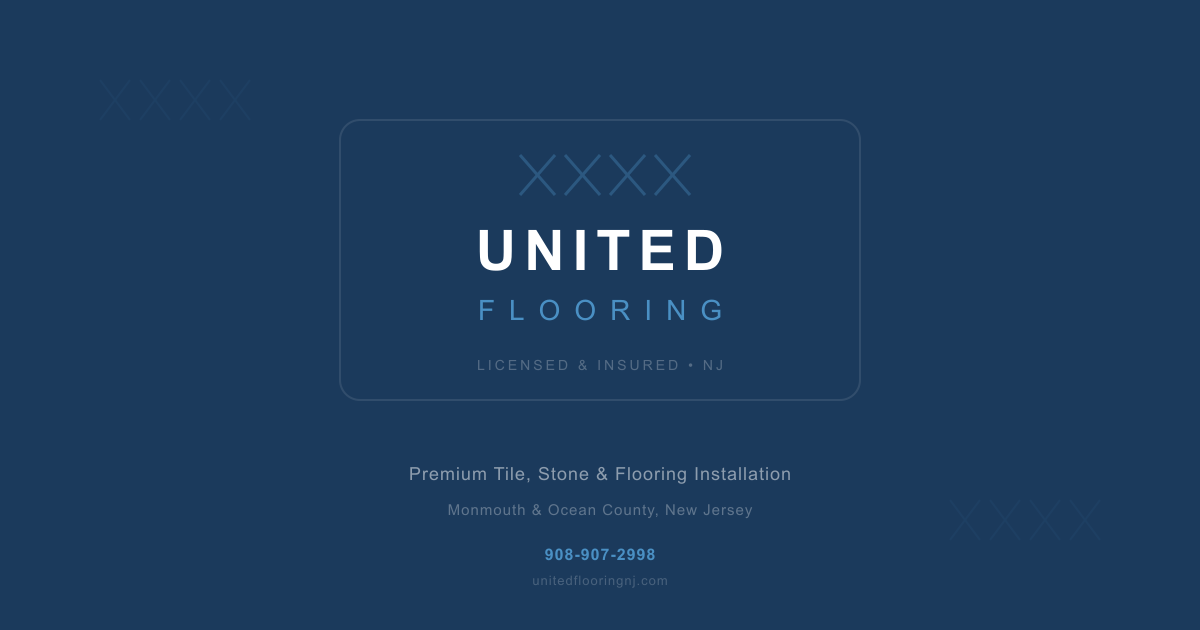
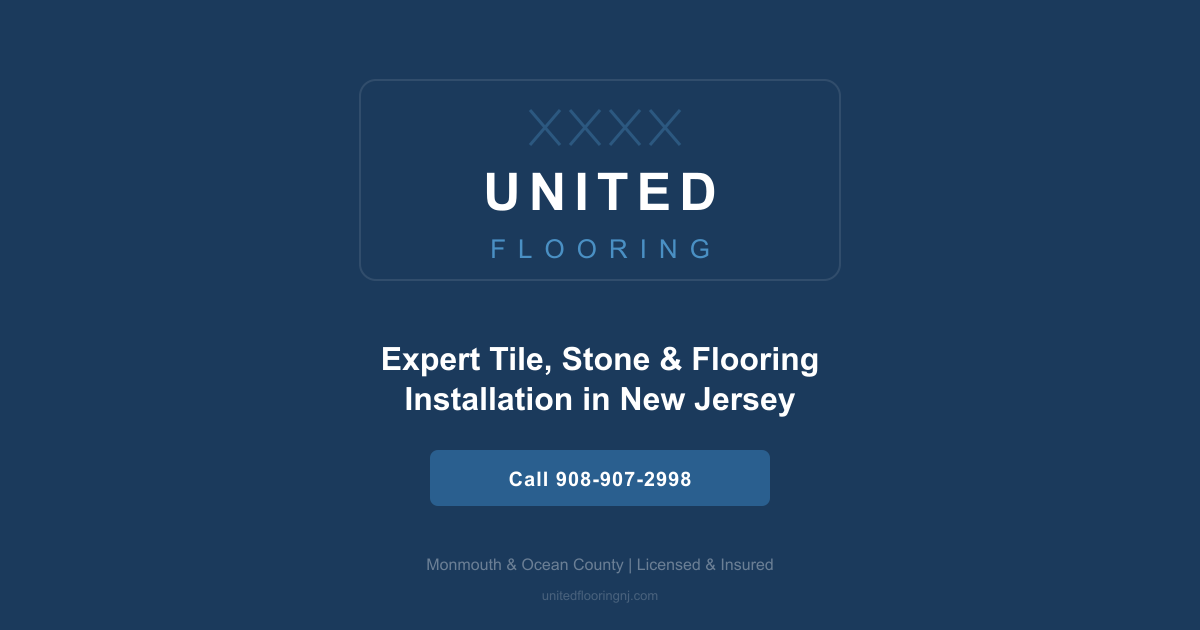
White hero background, fix OG image and metadata
- Hero: white background with subtle photo overlay, navy/blue text
- Navbar: always light theme to match white hero
- OG image: clear headline + CTA button (Call 908-907-2998)
- Title shortened to 51 chars for optimal social preview
- Description shortened to ~130 chars
- Add metadataBase for proper OG image URL resolution
- Use relative OG image paths

diff --git a/components/Hero.js b/components/Hero.js
@@ -1,34 +1,34 @@
 export default function Hero() {
   return (
-    <section id="hero" className="relative min-h-screen flex items-center bg-linear-135 from-navy-dark via-navy to-blue overflow-hidden">
+    <section id="hero" className="relative min-h-screen flex items-center bg-white overflow-hidden">
       {/* Background image overlay */}
       <div
-        className="absolute inset-0 bg-[url('/photos/IMG_4963.JPG')] bg-center bg-cover bg-no-repeat opacity-15 grayscale-[30%]"
+        className="absolute inset-0 bg-[url('/photos/IMG_4963.JPG')] bg-center bg-cover bg-no-repeat opacity-[0.07] grayscale-[30%]"
       />
       {/* Bottom gradient fade */}
-      <div className="absolute bottom-0 left-0 right-0 h-[200px] bg-linear-to-t from-white to-transparent" />
+      <div className="absolute bottom-0 left-0 right-0 h-[200px] bg-linear-to-t from-beige to-transparent" />
 
       <div className="w-[90%] max-w-[1200px] mx-auto relative z-2 max-w-[700px]">
-        <div className="inline-flex items-center gap-2 px-5 py-2 bg-white/10 backdrop-blur-[10px] border border-white/15 rounded-full font-heading text-[0.75rem] font-semibold tracking-[2px] uppercase text-beige mb-7 before:content-[''] before:w-2 before:h-2 before:bg-[#4ADE80] before:rounded-full">
+        <div className="inline-flex items-center gap-2 px-5 py-2 bg-navy/[0.06] border border-navy/10 rounded-full font-heading text-[0.75rem] font-semibold tracking-[2px] uppercase text-navy mb-7 before:content-[''] before:w-2 before:h-2 before:bg-[#4ADE80] before:rounded-full">
           Licensed &amp; Insured
         </div>
-        <h1 className="font-heading text-[clamp(2.8rem,6vw,4.5rem)] font-bold text-white leading-[1.1] mb-6 max-md:text-[clamp(2.2rem,7vw,3.2rem)]">
-          Premium Flooring<br />&amp; <span className="text-beige-warm">Tile Experts</span>
+        <h1 className="font-heading text-[clamp(2.8rem,6vw,4.5rem)] font-bold text-navy leading-[1.1] mb-6 max-md:text-[clamp(2.2rem,7vw,3.2rem)]">
+          Premium Flooring<br />&amp; <span className="text-blue">Tile Experts</span>
         </h1>
-        <p className="text-[1.15rem] text-white/75 leading-[1.8] mb-10 max-w-[520px] max-md:text-base">
+        <p className="text-[1.15rem] text-gray leading-[1.8] mb-10 max-w-[520px] max-md:text-base">
           Transforming homes across Monmouth &amp; Ocean County with expert installation of tile, marble,
           granite, hardwood and stone. From kitchen renovations to custom showers — craftsmanship you can trust.
         </p>
         <div className="flex gap-4 flex-wrap max-md:flex-col">
           <a
             href="#contact"
-            className="inline-flex items-center gap-2.5 px-9 py-4 rounded-lg font-heading text-[0.9rem] font-semibold tracking-[0.3px] bg-blue text-white transition-all duration-300 hover:bg-blue-light hover:-translate-y-0.5 hover:shadow-[0_10px_30px_rgba(42,95,143,0.3)] max-md:text-center max-md:justify-center"
+            className="inline-flex items-center gap-2.5 px-9 py-4 rounded-lg font-heading text-[0.9rem] font-semibold tracking-[0.3px] bg-navy text-white transition-all duration-300 hover:bg-blue hover:-translate-y-0.5 hover:shadow-[0_10px_30px_rgba(27,58,92,0.25)] max-md:text-center max-md:justify-center"
           >
             Get a Free Estimate
           </a>
           <a
             href="#gallery"
-            className="inline-flex items-center gap-2.5 px-9 py-4 rounded-lg font-heading text-[0.9rem] font-semibold tracking-[0.3px] bg-transparent text-white border-[1.5px] border-white/30 transition-all duration-300 hover:border-white hover:bg-white/10 max-md:text-center max-md:justify-center"
+            className="inline-flex items-center gap-2.5 px-9 py-4 rounded-lg font-heading text-[0.9rem] font-semibold tracking-[0.3px] bg-transparent text-navy border-[1.5px] border-navy/20 transition-all duration-300 hover:border-navy hover:bg-navy/[0.04] max-md:text-center max-md:justify-center"
           >
             View Our Work
           </a>
@@ -36,9 +36,9 @@ export default function Hero() {
       </div>
 
       {/* Scroll indicator */}
-      <div className="absolute bottom-10 left-1/2 -translate-x-1/2 z-2 flex flex-col items-center gap-2 text-white/40 text-[0.7rem] tracking-[2px] uppercase animate-[float_3s_ease-in-out_infinite] max-md:hidden">
+      <div className="absolute bottom-10 left-1/2 -translate-x-1/2 z-2 flex flex-col items-center gap-2 text-navy/30 text-[0.7rem] tracking-[2px] uppercase animate-[float_3s_ease-in-out_infinite] max-md:hidden">
         <span>Scroll</span>
-        <div className="w-px h-10 bg-linear-to-b from-white/40 to-transparent" />
+        <div className="w-px h-10 bg-linear-to-b from-navy/30 to-transparent" />
       </div>
     </section>
   );

diff --git a/app/layout.js b/app/layout.js
@@ -17,22 +17,23 @@ const inter = Inter({
 });
 
 export const metadata = {
-  title: "United Flooring NJ | Tile, Stone & Hardwood Installation | Monmouth & Ocean County",
+  metadataBase: new URL("https://unitedflooringnj.com"),
+  title: "United Flooring NJ | Tile, Stone & Hardwood Experts",
   description:
-    "United Flooring NJ provides expert tile, porcelain, marble, granite, stone and hardwood flooring installation in Monmouth and Ocean County. Kitchen and bathroom renovations, floor sanding and finishing. Licensed & insured. Call 908-907-2998.",
+    "Expert tile, stone and hardwood flooring installation in Monmouth & Ocean County, NJ. Kitchen and bath renovations. Licensed & insured. 908-907-2998.",
   keywords:
     "flooring installation NJ, tile installation New Jersey, bathroom remodel Monmouth County, kitchen renovation Ocean County, hardwood floor installation, marble tile, porcelain tile, granite installation, stone flooring, floor sanding, concrete pavers, West Long Branch flooring, United Flooring",
   authors: [{ name: "United Flooring NJ" }],
   openGraph: {
-    title: "United Flooring NJ | Expert Tile, Stone & Hardwood Installation",
+    title: "United Flooring NJ | Tile, Stone & Hardwood Experts",
     description:
-      "Professional flooring installation and renovation services in Monmouth & Ocean County, NJ. Tile, marble, granite, hardwood, concrete and pavers. Licensed & insured.",
+      "Expert tile, stone and hardwood flooring in Monmouth & Ocean County, NJ. Kitchen & bath renovations. Licensed & insured. 908-907-2998.",
     type: "website",
     url: "https://unitedflooringnj.com",
     locale: "en_US",
     images: [
       {
-        url: "https://unitedflooringnj.com/og-image.png",
+        url: "/og-image.png",
         width: 1200,
         height: 630,
         alt: "United Flooring NJ — Premium Tile, Stone & Flooring Installation",
@@ -41,10 +42,10 @@ export const metadata = {
   },
   twitter: {
     card: "summary_large_image",
-    title: "United Flooring NJ | Expert Tile, Stone & Hardwood Installation",
+    title: "United Flooring NJ | Tile, Stone & Hardwood Experts",
     description:
-      "Professional flooring installation and renovation services in Monmouth & Ocean County, NJ. Licensed & insured. Call 908-907-2998.",
-    images: ["https://unitedflooringnj.com/og-image.png"],
+      "Expert tile, stone and hardwood flooring in Monmouth & Ocean County, NJ. Kitchen & bath renovations. Licensed & insured.",
+    images: ["/og-image.png"],
   },
   alternates: {
     canonical: "https://unitedflooringnj.com",

diff --git a/components/Navbar.js b/components/Navbar.js
@@ -55,7 +55,7 @@ export default function Navbar() {
         >
           <Logo
             variant="inline"
-            theme={scrolled ? "light" : "dark"}
+            theme="light"
             className="h-[44px] w-auto"
           />
         </a>
@@ -76,9 +76,7 @@ export default function Navbar() {
               key={href}
               href={href}
               onClick={(e) => handleNavClick(e, href)}
-              className={`font-heading text-[0.85rem] font-medium tracking-[0.5px] relative transition-colors duration-300 after:content-[''] after:absolute after:bottom-[-4px] after:left-0 after:w-0 after:h-[2px] after:bg-blue-light after:transition-[width] after:duration-300 hover:after:w-full max-md:!text-white/80 max-md:text-base ${
-                scrolled ? "text-charcoal hover:text-blue" : "text-white/85 hover:text-white"
-              }`}
+              className="font-heading text-[0.85rem] font-medium tracking-[0.5px] relative transition-colors duration-300 text-charcoal hover:text-blue after:content-[''] after:absolute after:bottom-[-4px] after:left-0 after:w-0 after:h-[2px] after:bg-blue-light after:transition-[width] after:duration-300 hover:after:w-full max-md:!text-white/80 max-md:text-base"
             >
               {label}
             </a>
@@ -102,17 +100,17 @@ export default function Navbar() {
         >
           <span
             className={`block w-6 h-[2px] rounded-sm transition-all duration-300 ${
-              scrolled ? "bg-navy" : "bg-white"
+              "bg-navy"
             } ${menuOpen ? "rotate-45 translate-x-[5px] translate-y-[5px]" : ""}`}
           />
           <span
             className={`block w-6 h-[2px] rounded-sm transition-all duration-300 ${
-              scrolled ? "bg-navy" : "bg-white"
+              "bg-navy"
             } ${menuOpen ? "opacity-0" : ""}`}
           />
           <span
             className={`block w-6 h-[2px] rounded-sm transition-all duration-300 ${
-              scrolled ? "bg-navy" : "bg-white"
+              "bg-navy"
             } ${menuOpen ? "-rotate-45 translate-x-[5px] -translate-y-[5px]" : ""}`}
           />
         </button>
